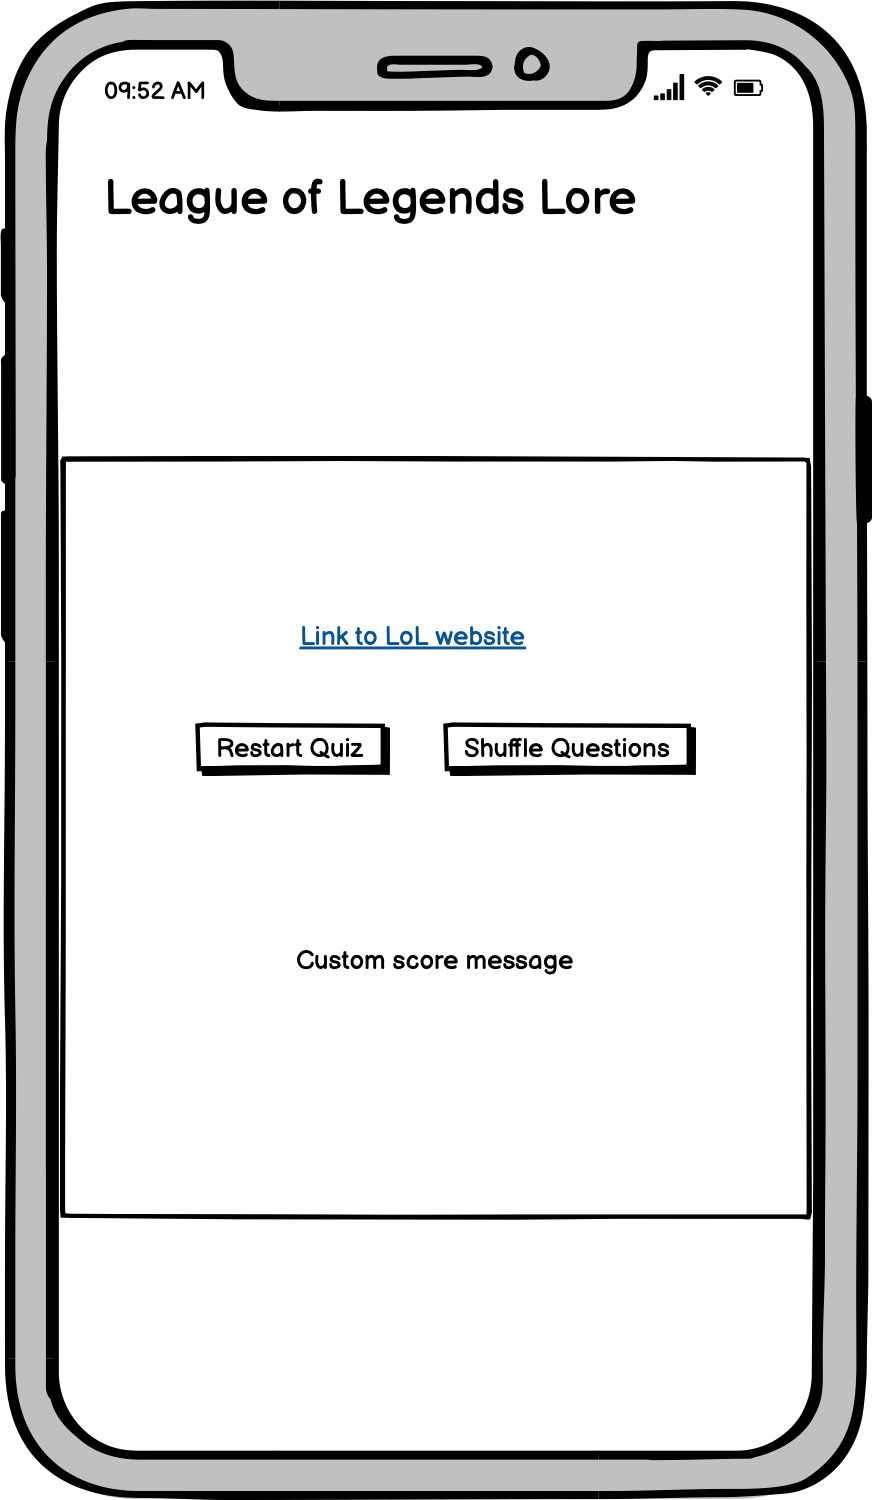
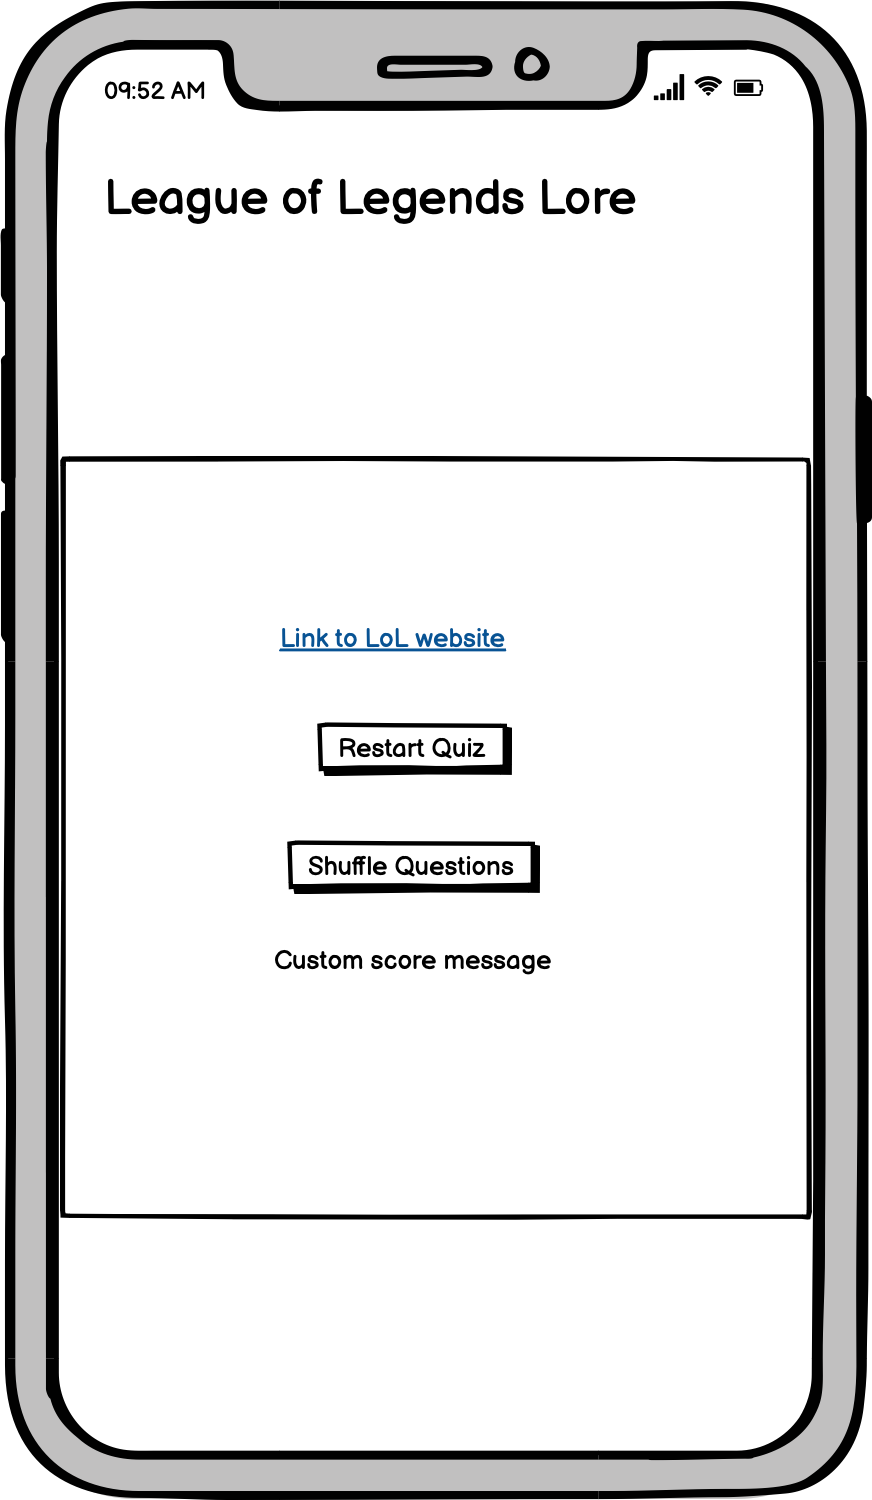
Edit wireframe for score page

Changed region(s): [[0.2167, 0.3987, 0.805, 0.5213], [0.3096, 0.552, 0.6502, 0.644]]

diff --git a/README.md b/README.md
@@ -78,7 +78,7 @@ A "shuffle questions" button will appear after the user sees their score. Clicki
 
 [Quiz Score](https://github.com/Hasmelash95/lol-lore/blob/main/README-assets/wireframes/quiz-page-score.png)
 
-[Quiz Score mobile](https://github.com/Hasmelash95/lol-lore/blob/main/README-assets/wireframes/quiz-page-score-mob.png)
+[Quiz Score mobile](https://github.com/Hasmelash95/lol-lore/blob/5b190815ca5a9701e965187c0c8f61f677d7cc62/README-assets/wireframes/quiz-page-score-mob.png)
 
 [Quiz Score with Certificate link](https://github.com/Hasmelash95/lol-lore/blob/main/README-assets/wireframes/quiz-page-score-cert.png)
 
